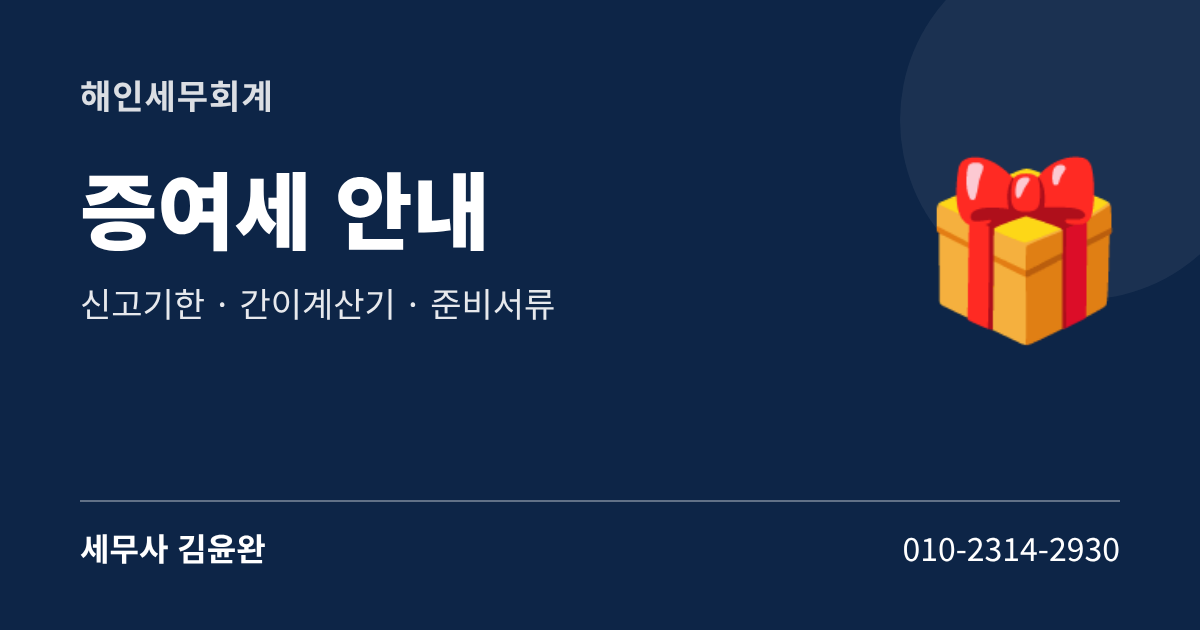
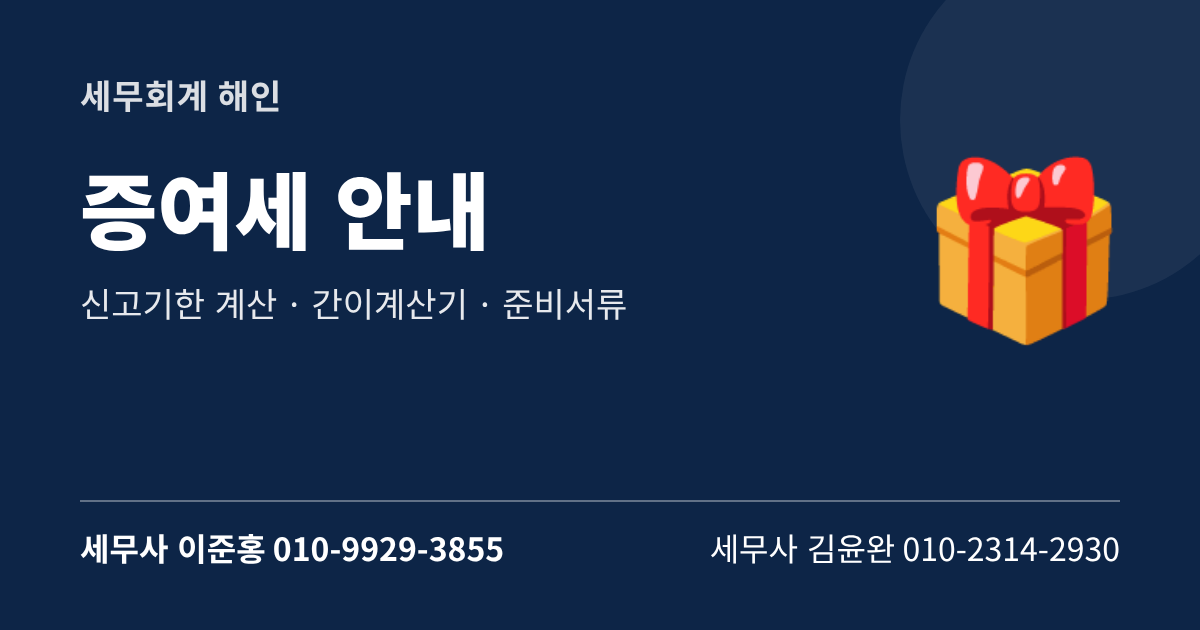
Add files via upload

diff --git a/calc.html b/calc.html
@@ -3,13 +3,13 @@
 <head>
 <meta charset="utf-8">
 <meta name="viewport" content="width=device-width, initial-scale=1">
-<title>양도·증여·상속세 간편계산 | 해인세무회계</title>
+<title>양도·증여·상속세 간편계산 | 세무회계 해인</title>
 <meta name="description" content="양도소득세·증여세·상속세 예상 세액을 금액만 넣어 바로 계산해 볼 수 있습니다.">
-<meta property="og:title" content="양도·증여·상속세 간편계산 | 해인세무회계">
+<meta property="og:title" content="양도·증여·상속세 간편계산 | 세무회계 해인">
 <meta property="og:description" content="양도소득세·증여세·상속세 예상 세액을 금액만 넣어 바로 계산해 볼 수 있습니다.">
 <meta property="og:type" content="website">
 <meta property="og:url" content="https://ywkim-boop.github.io/guide/calc.html">
-<meta property="og:image" content="https://ywkim-boop.github.io/guide/calc-og.png">
+<meta property="og:image" content="https://ywkim-boop.github.io/guide/calc-og.png?v=2">
 <meta property="og:image:width" content="1200">
 <meta property="og:image:height" content="630">
 <style>
@@ -119,7 +119,7 @@
 <body>
 
 <header>
-  <div class="firm">해인세무회계 · 세무사 김윤완</div>
+  <div class="firm">세무회계 해인 · 세무사 이준홍 · 김윤완</div>
   <h1>양도·증여·상속세 간편계산</h1>
   <p>금액을 넣으면 예상 세액을 바로 계산합니다. 상담 전 대략적인 규모를 확인하는 참고용입니다.</p>
 </header>
@@ -297,8 +297,9 @@
     <h2>정확한 세액은 상담으로</h2>
     <p style="font-size:14px">이 계산은 입력한 금액만으로 만든 <b>대략적인 참고값</b>입니다. 실제 세액은 재산을 어떻게 평가하느냐, 어떤 공제·특례가 적용되느냐에 따라 크게 달라집니다. 계약·등기 전에 먼저 연락 주시면 가장 유리한 방법을 함께 찾아 드립니다.</p>
     <div class="send">
-      <a href="mailto:ctawan0103@naver.com"><span>✉</span><span><b>이메일</b><br>ctawan0103@naver.com</span></a>
-      <a href="tel:01023142930"><span>📱</span><span><b>전화 · 문자 · 카카오톡</b><br>010-2314-2930</span></a>
+      <a href="mailto:hain2022@naver.com"><span>✉</span><span><b>이메일</b><br>hain2022@naver.com</span></a>
+      <a href="tel:01099293855"><span>📱</span><span><b>전화 · 문자 · 카카오톡 — 세무사 이준홍</b><br>010-9929-3855</span></a>
+      <a href="tel:01023142930"><span>📱</span><span><b>전화 · 문자 · 카카오톡 — 세무사 김윤완</b><br>010-2314-2930</span></a>
       <div><span>📠</span><span><b>팩스</b><br>0504-144-2930</span></div>
       <div><span>📮</span><span><b>우편 (등기·택배)</b><br>(47540) 부산 연제구 월드컵대로 153, 4층 (연산동, 연희빌딩)</span></div>
     </div>
@@ -318,9 +319,11 @@
 
 <footer>
   <div class="in">
-    <b>해인세무회계</b> · 세무사 김윤완<br>
-    ☎ <a href="tel:01023142930">010-2314-2930</a> · 팩스 0504-144-2930<br>
-    ✉ <a href="mailto:ctawan0103@naver.com">ctawan0103@naver.com</a><br>
+    <b>세무회계 해인</b><br>
+    세무사 이준홍 ☎ <a href="tel:01099293855">010-9929-3855</a><br>
+    세무사 김윤완 ☎ <a href="tel:01023142930">010-2314-2930</a><br>
+    팩스 0504-144-2930<br>
+    ✉ <a href="mailto:hain2022@naver.com">hain2022@naver.com</a><br>
     📮 (47540) 부산 연제구 월드컵대로 153, 4층 (연산동, 연희빌딩)
     <div class="note">이 계산기는 2026년 11월 현행 법령 기준의 참고용 계산이며 법적 효력은 없습니다. 입력하신 금액은 이 기기에만 저장되고 사무실로 전송되지 않습니다.</div>
   </div>

diff --git a/sangsok.html b/sangsok.html
@@ -3,13 +3,13 @@
 <head>
 <meta charset="utf-8">
 <meta name="viewport" content="width=device-width, initial-scale=1">
-<title>상속세 안내 | 해인세무회계</title>
+<title>상속세 안내 | 세무회계 해인</title>
 <meta name="description" content="사망일을 입력하면 상속 관련 기한이 계산되고, 상속세 신고에 필요한 서류를 확인할 수 있습니다.">
-<meta property="og:title" content="상속세 안내 | 해인세무회계">
+<meta property="og:title" content="상속세 안내 | 세무회계 해인">
 <meta property="og:description" content="사망일을 입력하면 상속 관련 기한이 계산되고, 상속세 신고에 필요한 서류를 확인할 수 있습니다.">
 <meta property="og:type" content="website">
 <meta property="og:url" content="https://ywkim-boop.github.io/guide/sangsok.html">
-<meta property="og:image" content="https://ywkim-boop.github.io/guide/sangsok-og.png">
+<meta property="og:image" content="https://ywkim-boop.github.io/guide/sangsok-og.png?v=2">
 <meta property="og:image:width" content="1200">
 <meta property="og:image:height" content="630">
 <style>
@@ -133,7 +133,7 @@
 <body>
 
 <header>
-  <div class="firm">해인세무회계 · 세무사 김윤완</div>
+  <div class="firm">세무회계 해인 · 세무사 이준홍 · 김윤완</div>
   <h1>상속세 안내</h1>
   <p>상속 개시 후, 무엇부터 준비해야 할지 순서대로 안내해 드립니다.</p>
 </header>
@@ -479,8 +479,9 @@
   <section>
     <h2>서류 보내는 방법</h2>
     <div class="send">
-      <a href="mailto:ctawan0103@naver.com"><span>✉</span><span><b>이메일</b><br>ctawan0103@naver.com</span></a>
-      <a href="tel:01023142930"><span>📱</span><span><b>전화 · 문자 · 카카오톡</b><br>010-2314-2930 — 서류는 휴대폰으로 찍어서 보내셔도 됩니다</span></a>
+      <a href="mailto:hain2022@naver.com"><span>✉</span><span><b>이메일</b><br>hain2022@naver.com</span></a>
+      <a href="tel:01099293855"><span>📱</span><span><b>전화 · 문자 · 카카오톡 — 세무사 이준홍</b><br>010-9929-3855 — 서류는 휴대폰으로 찍어서 보내셔도 됩니다</span></a>
+      <a href="tel:01023142930"><span>📱</span><span><b>전화 · 문자 · 카카오톡 — 세무사 김윤완</b><br>010-2314-2930</span></a>
       <div><span>📠</span><span><b>팩스</b><br>0504-144-2930</span></div>
       <div><span>📮</span><span><b>우편 (등기·택배)</b><br>(47540) 부산 연제구 월드컵대로 153, 4층 (연산동, 연희빌딩)</span></div>
     </div>
@@ -501,9 +502,11 @@
 
 <footer>
   <div class="in">
-    <b>해인세무회계</b> · 세무사 김윤완<br>
-    ☎ <a href="tel:01023142930">010-2314-2930</a> · 팩스 0504-144-2930<br>
-    ✉ <a href="mailto:ctawan0103@naver.com">ctawan0103@naver.com</a><br>
+    <b>세무회계 해인</b><br>
+    세무사 이준홍 ☎ <a href="tel:01099293855">010-9929-3855</a><br>
+    세무사 김윤완 ☎ <a href="tel:01023142930">010-2314-2930</a><br>
+    팩스 0504-144-2930<br>
+    ✉ <a href="mailto:hain2022@naver.com">hain2022@naver.com</a><br>
     📮 (47540) 부산 연제구 월드컵대로 153, 4층 (연산동, 연희빌딩)
     <div class="note">이 안내는 상속세 신고를 처음 준비하시는 분들의 이해를 돕기 위한 일반 안내이며 법적 효력은 없습니다. 실제 공제 적용 여부와 납부세액은 재산 종류·평가방법·상속인 구성·사전증여 이력 등에 따라 달라지므로 담당 세무사와 상담하시기 바랍니다.</div>
   </div>

diff --git a/jeungyeo.html b/jeungyeo.html
@@ -3,13 +3,13 @@
 <head>
 <meta charset="utf-8">
 <meta name="viewport" content="width=device-width, initial-scale=1">
-<title>증여세 안내 | 해인세무회계</title>
+<title>증여세 안내 | 세무회계 해인</title>
 <meta name="description" content="증여일을 입력하면 신고기한이 계산되고, 증여세 신고에 필요한 서류를 상황별로 확인할 수 있습니다.">
-<meta property="og:title" content="증여세 안내 | 해인세무회계">
+<meta property="og:title" content="증여세 안내 | 세무회계 해인">
 <meta property="og:description" content="증여일을 입력하면 신고기한이 계산되고, 증여세 신고에 필요한 서류를 상황별로 확인할 수 있습니다.">
 <meta property="og:type" content="website">
 <meta property="og:url" content="https://ywkim-boop.github.io/guide/jeungyeo.html">
-<meta property="og:image" content="https://ywkim-boop.github.io/guide/jeungyeo-og.png">
+<meta property="og:image" content="https://ywkim-boop.github.io/guide/jeungyeo-og.png?v=2">
 <meta property="og:image:width" content="1200">
 <meta property="og:image:height" content="630">
 <style>
@@ -150,7 +150,7 @@
 <body>
 
 <header>
-  <div class="firm">해인세무회계 · 세무사 김윤완</div>
+  <div class="firm">세무회계 해인 · 세무사 이준홍 · 김윤완</div>
   <h1>증여세 안내</h1>
   <p>증여하기 전·후에 확인하실 내용과 준비서류를 안내해 드립니다.</p>
 </header>
@@ -432,8 +432,9 @@
   <section>
     <h2>서류 보내는 방법</h2>
     <div class="send">
-      <a href="mailto:ctawan0103@naver.com"><span>✉</span><span><b>이메일</b><br>ctawan0103@naver.com</span></a>
-      <a href="tel:01023142930"><span>📱</span><span><b>전화 · 문자 · 카카오톡</b><br>010-2314-2930 — 서류는 휴대폰으로 찍어서 보내셔도 됩니다</span></a>
+      <a href="mailto:hain2022@naver.com"><span>✉</span><span><b>이메일</b><br>hain2022@naver.com</span></a>
+      <a href="tel:01099293855"><span>📱</span><span><b>전화 · 문자 · 카카오톡 — 세무사 이준홍</b><br>010-9929-3855 — 서류는 휴대폰으로 찍어서 보내셔도 됩니다</span></a>
+      <a href="tel:01023142930"><span>📱</span><span><b>전화 · 문자 · 카카오톡 — 세무사 김윤완</b><br>010-2314-2930</span></a>
       <div><span>📠</span><span><b>팩스</b><br>0504-144-2930</span></div>
       <div><span>📮</span><span><b>우편 (등기·택배)</b><br>(47540) 부산 연제구 월드컵대로 153, 4층 (연산동, 연희빌딩)</span></div>
     </div>
@@ -454,9 +455,11 @@
 
 <footer>
   <div class="in">
-    <b>해인세무회계</b> · 세무사 김윤완<br>
-    ☎ <a href="tel:01023142930">010-2314-2930</a> · 팩스 0504-144-2930<br>
-    ✉ <a href="mailto:ctawan0103@naver.com">ctawan0103@naver.com</a><br>
+    <b>세무회계 해인</b><br>
+    세무사 이준홍 ☎ <a href="tel:01099293855">010-9929-3855</a><br>
+    세무사 김윤완 ☎ <a href="tel:01023142930">010-2314-2930</a><br>
+    팩스 0504-144-2930<br>
+    ✉ <a href="mailto:hain2022@naver.com">hain2022@naver.com</a><br>
     📮 (47540) 부산 연제구 월드컵대로 153, 4층 (연산동, 연희빌딩)
     <div class="note">이 안내는 증여세 신고를 준비하시는 분들의 이해를 돕기 위한 일반 안내이며 법적 효력은 없습니다. 실제 공제 적용 여부와 납부세액은 재산 종류·평가방법·증여 이력 등에 따라 달라지므로 담당 세무사와 상담하시기 바랍니다.</div>
   </div>

diff --git a/yangdo.html b/yangdo.html
@@ -3,12 +3,12 @@
 <head>
 <meta charset="utf-8">
 <meta name="viewport" content="width=device-width, initial-scale=1">
-<title>양도소득세 안내 | 해인세무회계</title>
-<meta property="og:title" content="양도소득세 안내 | 해인세무회계">
+<title>양도소득세 안내 | 세무회계 해인</title>
+<meta property="og:title" content="양도소득세 안내 | 세무회계 해인">
 <meta property="og:description" content="양도일을 입력하면 신고기한이 계산되고, 필요한 서류를 상황별로 확인할 수 있습니다.">
 <meta property="og:type" content="website">
 <meta property="og:url" content="https://ywkim-boop.github.io/guide/yangdo.html">
-<meta property="og:image" content="https://ywkim-boop.github.io/guide/yangdo-og.png">
+<meta property="og:image" content="https://ywkim-boop.github.io/guide/yangdo-og.png?v=2">
 <meta property="og:image:width" content="1200">
 <meta property="og:image:height" content="630">
 <meta name="description" content="양도일을 입력하면 신고기한이 계산되고, 필요한 서류를 상황별로 확인할 수 있습니다.">
@@ -118,7 +118,7 @@
 <body>
 
 <header>
-  <div class="firm">해인세무회계 · 세무사 김윤완</div>
+  <div class="firm">세무회계 해인 · 세무사 이준홍 · 김윤완</div>
   <h1>양도소득세 안내</h1>
   <p>상황에 맞는 서류를 확인하시고, 준비하신 서류는 체크해 두세요.</p>
 </header>
@@ -297,8 +297,9 @@
     <section>
       <h2>서류 보내는 방법</h2>
       <div class="send">
-      <a href="mailto:ctawan0103@naver.com"><span>✉</span><span><b>이메일</b><br>ctawan0103@naver.com</span></a>
-      <a href="tel:01023142930"><span>📱</span><span><b>전화 · 문자 · 카카오톡</b><br>010-2314-2930 — 서류는 휴대폰으로 찍어서 보내셔도 됩니다</span></a>
+      <a href="mailto:hain2022@naver.com"><span>✉</span><span><b>이메일</b><br>hain2022@naver.com</span></a>
+      <a href="tel:01099293855"><span>📱</span><span><b>전화 · 문자 · 카카오톡 — 세무사 이준홍</b><br>010-9929-3855 — 서류는 휴대폰으로 찍어서 보내셔도 됩니다</span></a>
+      <a href="tel:01023142930"><span>📱</span><span><b>전화 · 문자 · 카카오톡 — 세무사 김윤완</b><br>010-2314-2930</span></a>
       <div><span>📠</span><span><b>팩스</b><br>0504-144-2930</span></div>
       <div><span>📮</span><span><b>우편 (등기·택배)</b><br>(47540) 부산 연제구 월드컵대로 153, 4층 (연산동, 연희빌딩)</span></div>
     </div>
@@ -319,9 +320,11 @@
 
 <footer>
   <div class="in">
-    <b>해인세무회계</b> · 세무사 김윤완<br>
-    ☎ <a href="tel:01023142930">010-2314-2930</a> · 팩스 0504-144-2930<br>
-    ✉ <a href="mailto:ctawan0103@naver.com">ctawan0103@naver.com</a><br>
+    <b>세무회계 해인</b><br>
+    세무사 이준홍 ☎ <a href="tel:01099293855">010-9929-3855</a><br>
+    세무사 김윤완 ☎ <a href="tel:01023142930">010-2314-2930</a><br>
+    팩스 0504-144-2930<br>
+    ✉ <a href="mailto:hain2022@naver.com">hain2022@naver.com</a><br>
     📮 (47540) 부산 연제구 월드컵대로 153, 4층 (연산동, 연희빌딩)
     <div class="note">이 안내는 일반적인 준비서류이며, 개별 상황에 따라 추가 서류를 요청드릴 수 있습니다.</div>
   </div>

diff --git a/index.html b/index.html
@@ -9,7 +9,7 @@
 <meta property="og:description" content="신고 일정 계산과 준비서류 체크리스트를 한곳에서 확인하세요.">
 <meta property="og:type" content="website">
 <meta property="og:url" content="https://ywkim-boop.github.io/guide/">
-<meta property="og:image" content="https://ywkim-boop.github.io/guide/index-og.png">
+<meta property="og:image" content="https://ywkim-boop.github.io/guide/index-og.png?v=2">
 <meta property="og:image:width" content="1200">
 <meta property="og:image:height" content="630">
 <style>
@@ -47,7 +47,7 @@
 
 <header>
   <div class="in">
-    <div class="firm">세무회계 해인 · 해인세무회계</div>
+    <div class="firm">세무회계 해인</div>
     <h1>세무 안내</h1>
     <p>필요한 안내를 선택하세요. 신고 일정 계산과 준비서류 체크리스트를 확인하실 수 있습니다.</p>
   </div>
@@ -74,7 +74,7 @@
 
   <section>
     <h2>양도 · 증여 · 상속</h2>
-    <p class="who">해인세무회계 · 세무사 김윤완</p>
+    <p class="who">세무회계 해인 · 세무사 이준홍 · 김윤완</p>
     <div class="links">
       <a href="yangdo.html"><span class="ic">🏠</span><span><b>양도소득세 안내</b><small>부동산을 파셨을 때 · 모의계산기</small></span><span class="go">›</span></a>
       <a href="jeungyeo.html"><span class="ic">🎁</span><span><b>증여세 안내</b><small>재산을 주고받을 때 · 간이계산기</small></span><span class="go">›</span></a>
@@ -82,8 +82,9 @@
       <a href="calc.html"><span class="ic">🧮</span><span><b>양도·증여·상속세 간편계산</b><small>금액만 넣으면 예상 세액 계산</small></span><span class="go">›</span></a>
     </div>
     <div class="contact">
-      📱 <a href="tel:01023142930">010-2314-2930</a> · 팩스 0504-144-2930<br>
-      ✉ <a href="mailto:ctawan0103@naver.com">ctawan0103@naver.com</a><br>
+      📱 이준홍 <a href="tel:01099293855">010-9929-3855</a> · 김윤완 <a href="tel:01023142930">010-2314-2930</a><br>
+      📠 팩스 0504-144-2930<br>
+      ✉ <a href="mailto:hain2022@naver.com">hain2022@naver.com</a><br>
       📮 (47540) 부산 연제구 월드컵대로 153, 4층 (연산동, 연희빌딩)
     </div>
   </section>

diff --git a/README.md b/README.md
@@ -15,7 +15,7 @@
 | 법인세 | https://ywkim-boop.github.io/guide/beopin.html |
 | 면세사업장 현황신고 | https://ywkim-boop.github.io/guide/myeonse.html |
 
-## 양도 · 증여 · 상속 (해인세무회계 · 세무사 김윤완)
+## 양도 · 증여 · 상속 (세무회계 해인 · 세무사 이준홍 010-9929-3855 · 김윤완 010-2314-2930 · hain2022@naver.com)
 | 안내 | 주소 |
 |---|---|
 | 양도소득세 | https://ywkim-boop.github.io/guide/yangdo.html |
